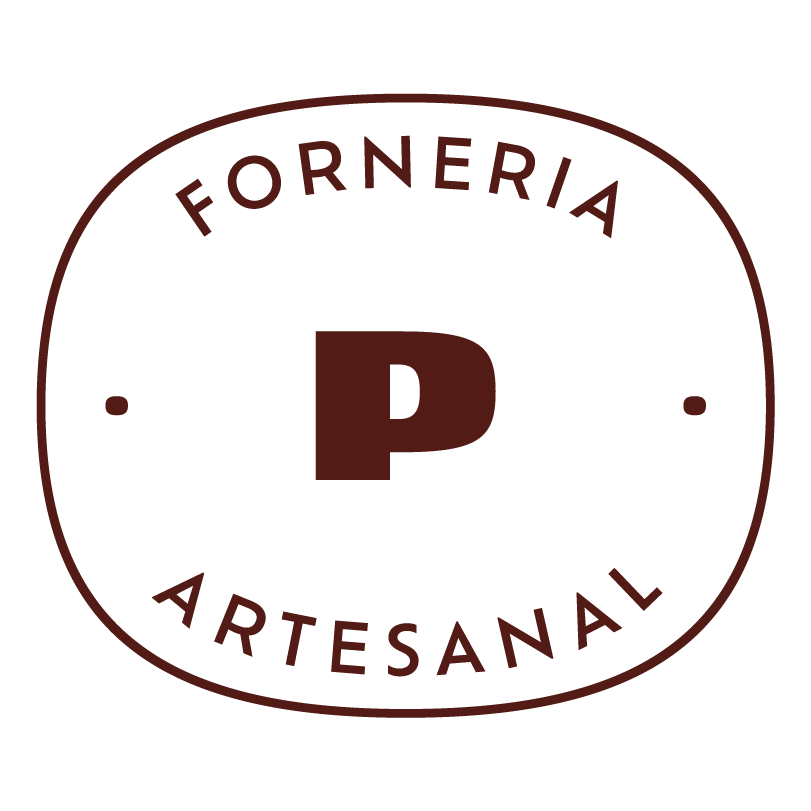
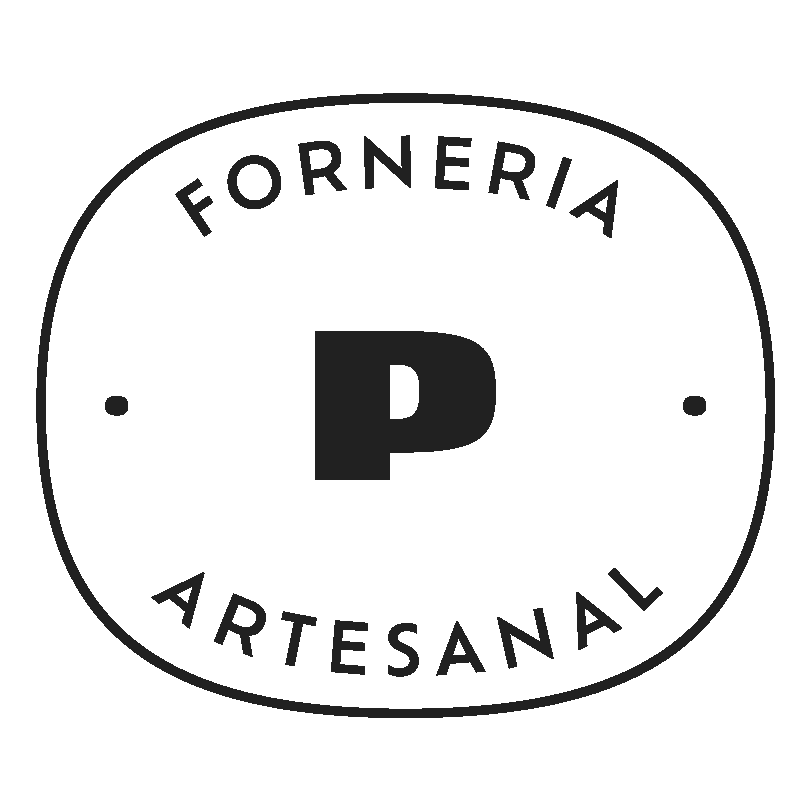
Design: paleta cinza/preto + marrom fechado, marca preta, checkout Mercado Pago, textos atualizados

diff --git a/index.html b/index.html
@@ -4,7 +4,7 @@
   <meta charset="UTF-8">
   <meta name="viewport" content="width=device-width, initial-scale=1.0">
   <title>Pão de Verdade — Curso de Pão e Pizza Artesanal | Uberlândia</title>
-  <meta name="description" content="Oficinas presenciais de pão e pizza artesanal em Uberlândia. Uma experiência a dois — do primeiro pão à última fatia de pizza. Vagas limitadas.">
+  <meta name="description" content="Oficinas presenciais de pão e pizza artesanal em Uberlândia. Aprenda do zero, com as próprias mãos, na Pão de Verdade. Vagas limitadas.">
   <link rel="preconnect" href="https://fonts.googleapis.com">
   <link rel="preconnect" href="https://fonts.gstatic.com" crossorigin>
   <link href="https://fonts.googleapis.com/css2?family=Playfair+Display:ital,wght@0,400;0,600;0,700;1,400&family=Open+Sans:wght@400;600;700&display=swap" rel="stylesheet">
@@ -16,7 +16,7 @@
   <header class="site-header">
     <div class="header-inner">
       <a href="index.html" class="brand">
-        <img src="assets/img/marca-vinho.png" alt="Pão de Verdade — Forneria Artesanal">
+        <img src="assets/img/marca-preta.png" alt="Pão de Verdade — Forneria Artesanal">
       </a>
       <button class="nav-toggle" aria-label="Abrir menu" aria-expanded="false">☰</button>
       <nav class="main-nav" id="mainNav">
@@ -37,8 +37,8 @@
     <section class="hero">
       <div>
         <span class="kicker left">Forneria artesanal · Uberlândia</span>
-        <h1>Uma experiência a dois.<br>Do <em>primeiro pão</em> à <em>última fatia de pizza</em>.</h1>
-        <p class="lead">Entre o amassar e o brindar, nasce algo que vai além da receita. É sobre fazer junto, saborear com calma e levar pra casa o que importa.</p>
+        <h1>Aprenda a fazer <em>pão</em> e <em>pizza artesanal</em> com as próprias mãos.</h1>
+        <p class="lead">Oficinas práticas na Pão de Verdade. Você põe a mão na massa, entende cada etapa do processo e leva pra casa pães, massas e muita confiança no forno.</p>
         <div class="btn-group">
           <a class="btn btn-primary btn-lg" href="curso-pao.html">Conhecer o curso de Pão</a>
           <a class="btn btn-outline btn-lg" href="curso-pizza.html">Conhecer o curso de Pizza</a>
@@ -53,7 +53,7 @@
     <section class="section section-alt">
       <div class="section-inner">
         <span class="kicker">Oficinas presenciais</span>
-        <h2 class="section-title">Oficinas com final feliz</h2>
+        <h2 class="section-title">Nossas oficinas</h2>
         <p class="section-sub">Em um único dia, você aprende a fazer pão artesanal pela manhã e pizza à noite. Tudo com fermentação natural, calma e prazer em cada etapa.</p>
         <div class="course-grid">
           <article class="course-card">
@@ -95,11 +95,11 @@
       <div class="section-inner">
         <span class="kicker">Passo a passo</span>
         <h2 class="section-title">Como funciona</h2>
-        <p class="section-sub">Você pode se inscrever em um dos cursos ou nos dois. Cada experiência é independente — mas juntas, formam um dia inteiro dedicado ao sabor e ao tempo.</p>
+        <p class="section-sub">Você pode se inscrever em um dos cursos ou nos dois. Cada oficina é independente — mas juntas, formam um dia inteiro dedicado ao sabor e ao tempo.</p>
         <div class="steps">
           <div class="step">
             <div class="num">1</div>
-            <h4>Escolha sua experiência</h4>
+            <h4>Escolha sua oficina</h4>
             <p>Curso de Pão pela manhã, Curso de Pizza à noite, ou os dois juntos.</p>
           </div>
           <div class="step">
@@ -146,8 +146,8 @@
     <section class="section section-alt">
       <div class="section-inner">
         <span class="kicker">Momentos</span>
-        <h2 class="section-title">Nossas experiências</h2>
-        <p class="section-sub">Momentos que acontecem dentro do nosso ateliê, entre farinha, forno e boas companhias.</p>
+        <h2 class="section-title">Dentro do ateliê</h2>
+        <p class="section-sub">Momentos que acontecem no nosso espaço, entre farinha, forno e boas companhias.</p>
         <div class="gallery-grid">
           <img src="assets/img/pao-hero.jpg" alt="Pão artesanal recém-assado">
           <img src="assets/img/atelie-placeholder.svg" alt="Ateliê Pão de Verdade">
@@ -161,10 +161,10 @@
       <h2>Garanta sua vaga agora</h2>
       <p>Valor por pessoa: <strong>R$275</strong> — ou <strong>R$467 para duas pessoas</strong> (15% OFF). Você pode escolher: uma vaga para um curso, duas vagas para o mesmo curso, ou uma vaga para cada curso (Pão + Pizza).</p>
       <div class="btn-group" style="justify-content:center;">
-        <a class="btn btn-whatsapp btn-lg" href="https://wa.me/5534936186847?text=Ol%C3%A1!%20Quero%20comprar%201%20vaga%20no%20Curso%20de%20P%C3%A3o%2FPizza%20por%20R%24275%2C00.%20Pode%20me%20enviar%20o%20Pix%20ou%20link%3F" target="_blank" rel="noopener">💬 Comprar 1 vaga — R$275</a>
-        <a class="btn btn-whatsapp btn-lg" href="https://wa.me/5534936186847?text=Ol%C3%A1!%20Quero%20comprar%202%20vagas%20no%20Curso%20de%20P%C3%A3o%2FPizza%20com%20desconto%20por%20R%24467%2C00.%20Pode%20me%20enviar%20o%20Pix%20ou%20link%3F" target="_blank" rel="noopener">💬 Comprar 2 vagas — R$467</a>
+        <a class="btn btn-primary btn-lg" href="https://www.mercadopago.com.br/checkout/v1/redirect?pref_id=79066848-a02ca58d-1eff-46c5-8883-d72758fb4832" target="_blank" rel="noopener">Comprar 1 vaga — R$275</a>
+        <a class="btn btn-primary btn-lg" href="https://www.mercadopago.com.br/checkout/v1/redirect?pref_id=79066848-f2e34a93-72ba-4c22-b6a5-53081385ce96" target="_blank" rel="noopener">Comprar 2 vagas — R$467</a>
       </div>
-      <p class="price-line">Turmas pequenas, vagas limitadas.</p>
+      <p class="price-line">Pagamento seguro via Mercado Pago · Pix ou cartão em até 12x. Turmas pequenas, vagas limitadas.</p>
     </section>
   </main>
 

diff --git a/assets/css/style.css b/assets/css/style.css
@@ -1,28 +1,28 @@
 /* =========================================================
    Pão de Verdade — identidade visual (Forneria Artesanal)
-   Fundo: #FFFFFF | CTA: #101010 | Texto: #101010
-   Minimalista, preto sobre branco — coerente com as etiquetas
+   Tons de cinza + preto #212121 (como o cardápio online)
+   Acento: marrom fechado #4A2E1B
    Títulos: Playfair Display | Corpo: Open Sans
    ========================================================= */
 
 :root {
-  --bg: #FFFDF9;
-  --bg-alt: #FAF5EA;
-  --cta: #521B15;
-  --cta-dark: #3B120E;
-  --text: #2B2B29;
-  --text-soft: #5A554C;
-  --line: #E7DED0;
-  --accent: #E14E12;
-  --accent-dark: #C43F0A;
-  --gold: #F9B104;
-  --olive: #67694F;
-  --accent-soft: #FBEDDF;
+  --bg: #FCFBF9;
+  --bg-alt: #F2F0EC;
+  --cta: #212121;
+  --cta-dark: #000000;
+  --text: #212121;
+  --text-soft: #6E6A64;
+  --line: #E2DED7;
+  --accent: #4A2E1B;
+  --accent-dark: #382213;
+  --accent-soft: #EFEAE3;
+  --gold: #8A7A5C;
+  --olive: #6E6A64;
   --white: #FFFFFF;
   --serif: 'Playfair Display', Georgia, 'Times New Roman', serif;
   --sans: 'Open Sans', 'Segoe UI', Arial, sans-serif;
-  --shadow: 0 12px 34px rgba(43, 43, 41, 0.1);
-  --radius: 12px;
+  --shadow: 0 12px 34px rgba(33, 33, 33, 0.1);
+  --radius: 10px;
 }
 
 * { margin: 0; padding: 0; box-sizing: border-box; }
@@ -32,8 +32,8 @@ html { scroll-behavior: smooth; }
 body {
   font-family: var(--sans);
   background:
-    radial-gradient(ellipse 80% 60% at 20% -10%, rgba(176, 90, 44, 0.05), transparent 60%),
-    radial-gradient(ellipse 60% 50% at 90% 0%, rgba(16, 16, 16, 0.03), transparent 55%),
+    radial-gradient(ellipse 70% 50% at 15% -8%, rgba(74, 46, 27, 0.04), transparent 60%),
+    radial-gradient(ellipse 55% 45% at 95% 0%, rgba(33, 33, 33, 0.03), transparent 55%),
     var(--bg);
   color: var(--text);
   line-height: 1.7;
@@ -368,9 +368,13 @@ a:hover { color: var(--cta-dark); }
 
 .cta-band p { max-width: 34em; margin: 0 auto 28px; font-size: 1.05rem; opacity: .95; }
 
-.cta-band .btn-whatsapp { background: #fff; color: var(--cta); }
+.cta-band .btn-primary { background: #fff; color: var(--cta); box-shadow: none; }
 
-.cta-band .btn-whatsapp:hover { background: var(--bg-alt); color: var(--cta-dark); }
+.cta-band .btn-primary:hover { background: var(--bg-alt); color: var(--cta-dark); }
+
+.cta-band .btn-whatsapp { background: #25D366; color: #fff; }
+
+.cta-band .btn-whatsapp:hover { background: #1DA851; color: #fff; }
 
 .cta-band .price-line { font-family: var(--serif); font-size: 1.2rem; margin-top: 18px; }
 
@@ -515,9 +519,16 @@ a:hover { color: var(--cta-dark); }
 .faq-item .faq-body { padding: 0 24px 20px; color: var(--text-soft); }
 
 /* ---------- About ---------- */
-.about-wrap { display: grid; grid-template-columns: 1fr 1fr; gap: 48px; align-items: center; }
+.about-wrap { display: grid; grid-template-columns: 1fr 1fr; gap: 48px; align-items: stretch; }
 
-.about-wrap .visual { border-radius: var(--radius); overflow: hidden; box-shadow: var(--shadow); }
+.about-wrap .visual {
+  border-radius: var(--radius);
+  overflow: hidden;
+  box-shadow: var(--shadow);
+  min-height: 420px;
+}
+
+.about-wrap .visual img { width: 100%; height: 100%; min-height: 420px; object-fit: cover; }
 
 @media (max-width: 860px) { .about-wrap { grid-template-columns: 1fr; } }
 

diff --git a/perguntas.html b/perguntas.html
@@ -16,7 +16,7 @@
   <header class="site-header">
     <div class="header-inner">
       <a href="index.html" class="brand">
-        <img src="assets/img/marca-vinho.png" alt="Pão de Verdade — Forneria Artesanal">
+        <img src="assets/img/marca-preta.png" alt="Pão de Verdade — Forneria Artesanal">
       </a>
       <button class="nav-toggle" aria-label="Abrir menu" aria-expanded="false">☰</button>
       <nav class="main-nav" id="mainNav">
@@ -55,7 +55,7 @@
         </details>
         <details class="faq-item">
           <summary>Como faço o pagamento?</summary>
-          <div class="faq-body">Você pode pagar via Pix ou cartão de crédito — no cartão, é possível parcelar em até 12x (com taxas da operadora). Após entrar em contato pelo WhatsApp, enviaremos as instruções detalhadas.</div>
+          <div class="faq-body">Você paga direto pelo botão de compra, em um checkout seguro do Mercado Pago — aceita Pix ou cartão de crédito (em até 12x, com taxas da operadora). A inscrição é confirmada após a aprovação do pagamento.</div>
         </details>
         <details class="faq-item">
           <summary>Onde os cursos são realizados?</summary>
@@ -71,7 +71,7 @@
         </details>
         <details class="faq-item">
           <summary>Como receberei a confirmação da minha inscrição?</summary>
-          <div class="faq-body">Após o pagamento, confirmaremos sua inscrição via WhatsApp e forneceremos todas as informações necessárias para o dia do curso.</div>
+          <div class="faq-body">Assim que o pagamento for aprovado, você recebe a confirmação e todas as informações necessárias para o dia do curso.</div>
         </details>
         <details class="faq-item">
           <summary>Você ensina fermento natural ou biológico?</summary>

diff --git a/curso-pao.html b/curso-pao.html
@@ -16,7 +16,7 @@
   <header class="site-header">
     <div class="header-inner">
       <a href="index.html" class="brand">
-        <img src="assets/img/marca-vinho.png" alt="Pão de Verdade — Forneria Artesanal">
+        <img src="assets/img/marca-preta.png" alt="Pão de Verdade — Forneria Artesanal">
       </a>
       <button class="nav-toggle" aria-label="Abrir menu" aria-expanded="false">☰</button>
       <nav class="main-nav" id="mainNav">
@@ -86,10 +86,10 @@
         <div class="mt-3">
           <div class="price-box">
             <div class="price">R$275 <small>por pessoa</small></div>
-            <p class="note">Você pode pagar via <strong>Pix</strong> ou <strong>parcelar no cartão</strong> (até 12x).</p>
-            <a class="btn btn-primary btn-lg" href="https://wa.me/5534936186847?text=Ol%C3%A1!%20Quero%20garantir%20minha%20vaga%20no%20Curso%20de%20P%C3%A3o%20para%20Iniciantes%20por%20R%24275%2C00.%20Pode%20me%20enviar%20o%20Pix%20ou%20link%3F" target="_blank" rel="noopener">Garantir minha vaga — R$275</a>
+            <p class="note">Pagamento seguro via <strong>Mercado Pago</strong> — Pix ou cartão em até 12x.</p>
+            <a class="btn btn-primary btn-lg" href="https://www.mercadopago.com.br/checkout/v1/redirect?pref_id=79066848-a02ca58d-1eff-46c5-8883-d72758fb4832" target="_blank" rel="noopener">Garantir minha vaga — R$275</a>
             <a class="btn btn-whatsapp" href="https://wa.me/5534936186847" target="_blank" rel="noopener">💬 Falar no WhatsApp</a>
-            <p class="small mt-1">Turmas pequenas, vagas limitadas. Confirmação via WhatsApp após o pagamento.</p>
+            <p class="small mt-1">Turmas pequenas, vagas limitadas. Confirmação da inscrição após o pagamento.</p>
           </div>
         </div>
       </div>

diff --git a/curso-pizza.html b/curso-pizza.html
@@ -16,7 +16,7 @@
   <header class="site-header">
     <div class="header-inner">
       <a href="index.html" class="brand">
-        <img src="assets/img/marca-vinho.png" alt="Pão de Verdade — Forneria Artesanal">
+        <img src="assets/img/marca-preta.png" alt="Pão de Verdade — Forneria Artesanal">
       </a>
       <button class="nav-toggle" aria-label="Abrir menu" aria-expanded="false">☰</button>
       <nav class="main-nav" id="mainNav">
@@ -86,10 +86,10 @@
         <div class="mt-3">
           <div class="price-box">
             <div class="price">R$275 <small>por pessoa</small></div>
-            <p class="note">Você pode pagar via <strong>Pix</strong> ou <strong>parcelar no cartão</strong> (até 12x).</p>
-            <a class="btn btn-primary btn-lg" href="https://wa.me/5534936186847?text=Ol%C3%A1!%20Quero%20garantir%20minha%20vaga%20no%20Curso%20de%20Pizza%20Artesanal%20por%20R%24275%2C00.%20Pode%20me%20enviar%20o%20Pix%20ou%20link%3F" target="_blank" rel="noopener">Garantir minha vaga — R$275</a>
+            <p class="note">Pagamento seguro via <strong>Mercado Pago</strong> — Pix ou cartão em até 12x.</p>
+            <a class="btn btn-primary btn-lg" href="https://www.mercadopago.com.br/checkout/v1/redirect?pref_id=79066848-22da6154-90e3-4392-96a0-18f679f8cef5" target="_blank" rel="noopener">Garantir minha vaga — R$275</a>
             <a class="btn btn-whatsapp" href="https://wa.me/5534936186847" target="_blank" rel="noopener">💬 Falar no WhatsApp</a>
-            <p class="small mt-1">Turmas pequenas, vagas limitadas. Confirmação via WhatsApp após o pagamento.</p>
+            <p class="small mt-1">Turmas pequenas, vagas limitadas. Confirmação da inscrição após o pagamento.</p>
           </div>
         </div>
       </div>

diff --git a/quem-somos.html b/quem-somos.html
@@ -16,7 +16,7 @@
   <header class="site-header">
     <div class="header-inner">
       <a href="index.html" class="brand">
-        <img src="assets/img/marca-vinho.png" alt="Pão de Verdade — Forneria Artesanal">
+        <img src="assets/img/marca-preta.png" alt="Pão de Verdade — Forneria Artesanal">
       </a>
       <button class="nav-toggle" aria-label="Abrir menu" aria-expanded="false">☰</button>
       <nav class="main-nav" id="mainNav">
